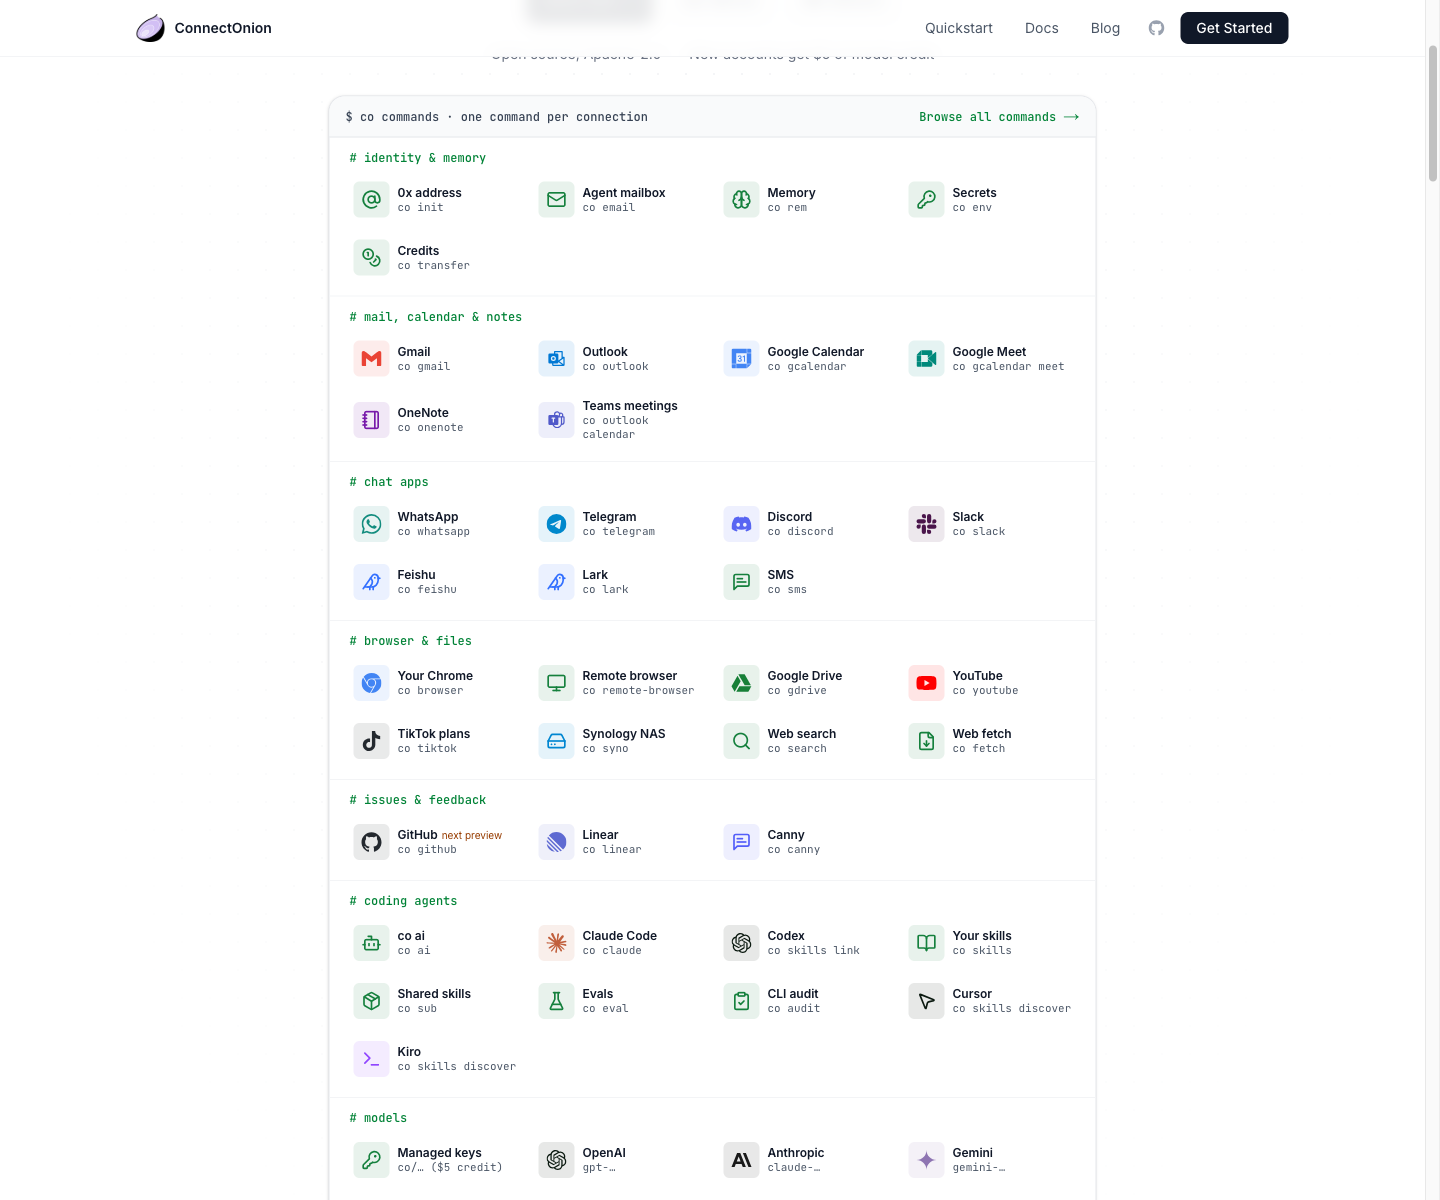
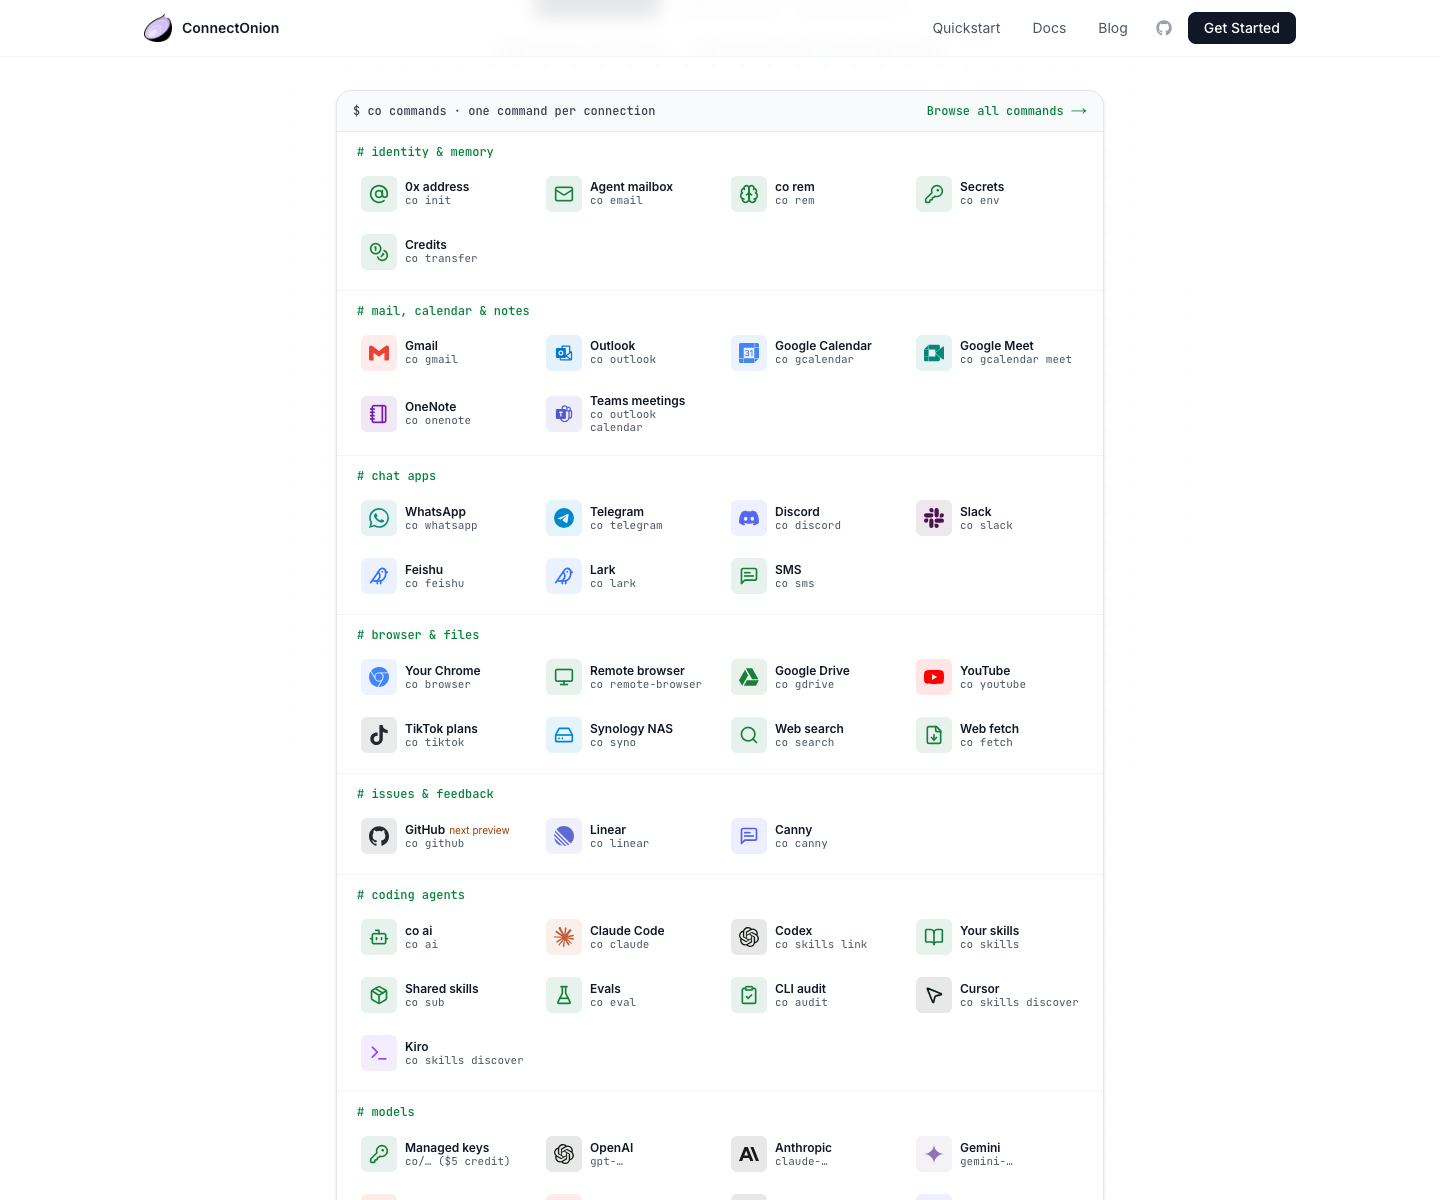
docs(cli): refresh discovery evidence after the canonical-route merge

diff --git a/docs/evidence/github-inbox-2147/README.md b/docs/evidence/github-inbox-2147/README.md
@@ -21,3 +21,9 @@ The GitHub, Linear and Canny guides and Design Journal returned HTTP 200 from
 the final production build, with the expected unique titles and canonical URLs.
 The journal was also captured at 1440×1000 and 390×844 without horizontal
  overflow. Its screenshots are included alongside the homepage wall captures.
+
+Merged main's co rem canonical-route and branding update (`a9b0813`) before
+review. Rebuilt with Webpack and reran blog checks: 121 Markdown files,
+137 canonical/feed/sitemap entries and 113 generated pages passed. Refreshed
+homepage screenshots; final checks still show 53 cards and no desktop/mobile
+horizontal overflow. The co rem card keeps main's `/rem` canonical target.
